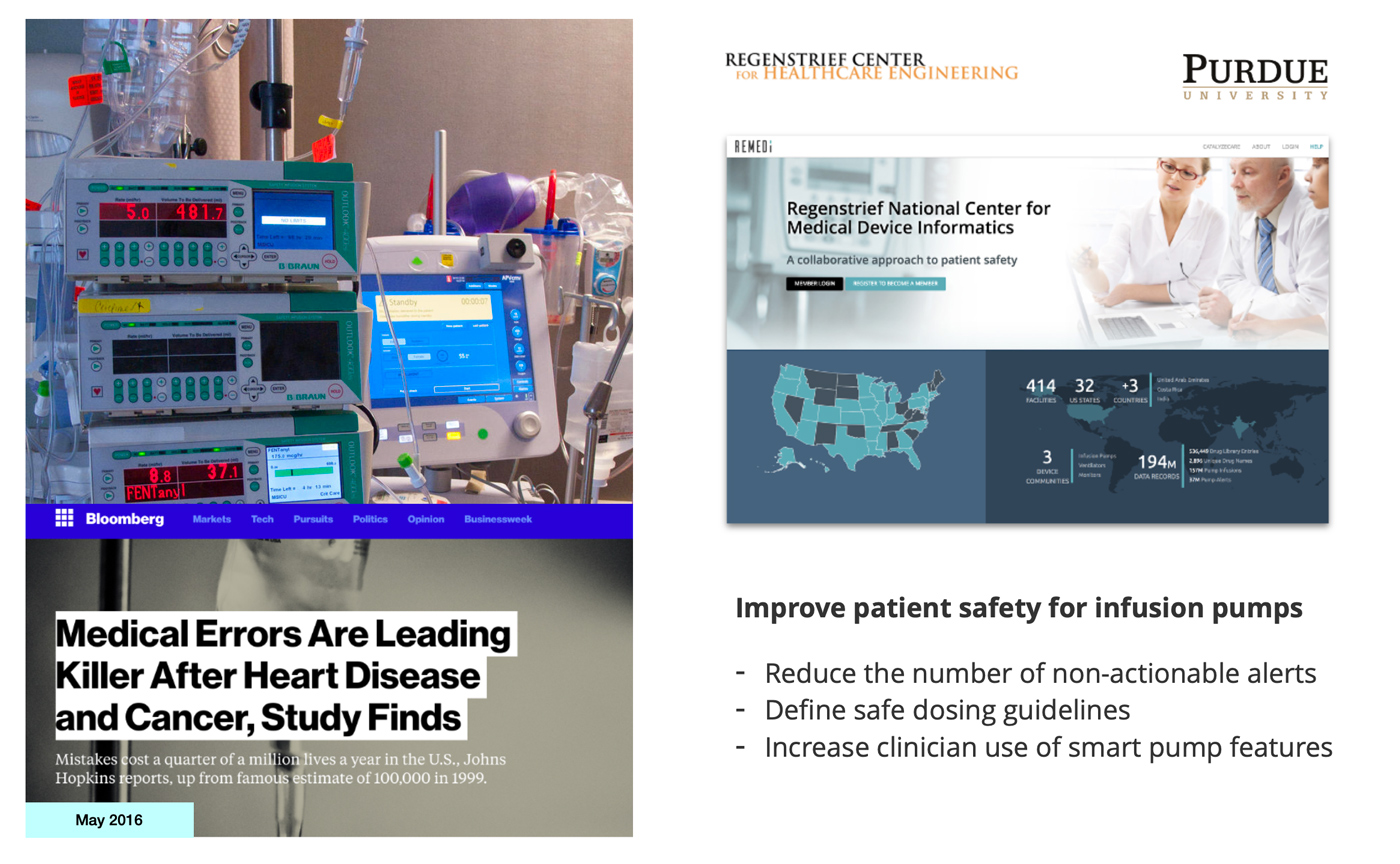
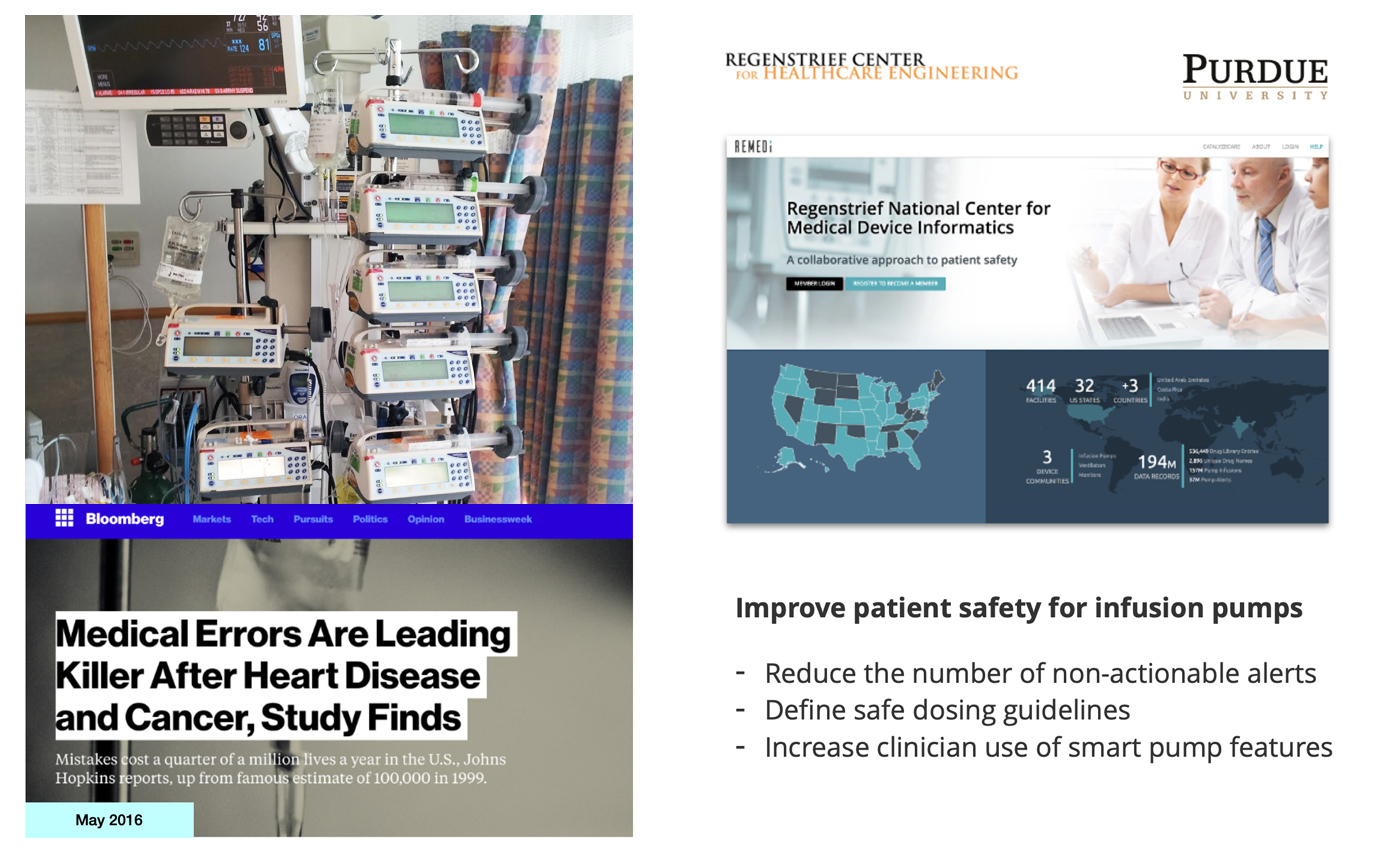
added more examples

Changed region(s): [[0.0, 0.0, 0.4607, 0.5938]]

diff --git a/story.html b/story.html
@@ -52,11 +52,12 @@
 					<li data-link="s-s1" class="selected">Intro</li>
 					<li data-link="s-s2">The Big Picture</li>
 					<li data-link="s-s3">Starting Point</li>
-					<li data-link="s-s4">Research</li>
-					<li data-link="s-s5">Early Concepts</li>
-          <li data-link="s-s6">Prototyping</li>
-					<li data-link="s-s7">Development</li>
-          <li data-link="s-s8">Impact</li>
+          <li data-link="s-s4">Challenges</li>
+					<li data-link="s-s5">Research</li>
+					<li data-link="s-s6">Early Concepts</li>
+          <li data-link="s-s7">Prototyping</li>
+					<li data-link="s-s8">Development</li>
+          <li data-link="s-s9">Impact</li>
 				</ul>
 			</div>
 		</div>
@@ -109,6 +110,21 @@
 
       <section class="content content-samples content-story" id="s-s4">
         <div class="wrap">
+          <h4>Challenges</h4>
+  				<div class="story-text">
+            <p>Designing for scale was one big challenge we faced, both in terms of system architecture, and the user experience itself. In design of the analytics UI I had to consider the big and growing number of potential selection options, huge number of data points for visualization, loading time and general performance.</p>
+            <p>We had to map non-standard irregular data in customer data files to standards to enable meaningful comparison. To help with data mapping, I designed a multi-step uploader tool with a step where we showed the user previously unmapped values and asked to pick best match. The process needed to be intuitive and non-tedious.</p>
+            <p>The overall complexity of data posed a big challenge for designing a simple-to-use, practical UI. This is the kind of design challenge I like best.</p>
+          </div>
+          <div class="sample">
+            <img src="assets/images/story/dll-challenge.jpg" alt="DLL design challenges" class="noshadow" />
+          </div>
+
+        </div>
+      </section>
+
+      <section class="content content-samples content-story" id="s-s5">
+        <div class="wrap">
           <h4>Research</h4>
   				<div class="story-text">
             <p>Good design starts with good research. As a UX designer, you are equipped with a body of knowledge on qualitative and quantitave research methods, tools and techniques. In practice, the context of a concrete project, environment and situation dictates what methods and resources are available and make most sense to use.</p>
@@ -121,7 +137,7 @@
         </div>
       </section>
 
-      <section class="content content-samples content-story" id="s-s5">
+      <section class="content content-samples content-story" id="s-s6">
         <div class="wrap">
           <h4>Information Design &amp; Early Concepts</h4>
   				<div class="story-text">
@@ -136,7 +152,7 @@
         </div>
       </section>
 
-      <section class="content content-samples content-story" id="s-s6">
+      <section class="content content-samples content-story" id="s-s7">
         <div class="wrap">
           <h4>On to Prototyping</h4>
   				<div class="story-text">
@@ -149,21 +165,23 @@
         </div>
       </section>
 
-      <section class="content content-samples content-story" id="s-s7">
+      <section class="content content-samples content-story" id="s-s8">
         <div class="wrap">
           <h4>Bringing it to Life</h4>
   				<div class="story-text">
             <p>Next comes the visual design part and polishing of interaction. Here the design principles all come into play. You think of balance, proportions, space, affordances, consider responsiveness and scale.</p>
             <p>I have the advantage of also being a decent coder, and prefer to deliver late stage interactive mock-ups coded in HTML, CSS & JS. In our small REMEDI team there was noone to pick up front-end coding task anyway. My mock-ups were the end product. It was the first app on a new platform, therefore no design system in place yet (we established a design system later on). This was the time to choose the tech stack, define the rules and set a scalable foundation. And it was a great time to learn. Here I mastered D3.js and wrote a whole charting library, I learned some functional programming with ClojureScript, got hands-on experience with React.</p>
-            <p>It's the best part - when your design vision comes to life, in a beautiful functional form, and when users start engaging with the product. Of course, design is never "done". Many cycles of improvement follow. To me watching the product I designed evolve is much like watching my babies grow. It's emotional and rewarding.</p>
           </div>
           <div class="sample">
-            <img src="assets/images/story/dll-prod.png" alt="DLL development" class="noshadow" />
+            <img src="assets/images/story/dll-comp-prod.jpg" alt="DLL development" class="noshadow" />
+          </div>
+          <div class="story-text">
+            <p>It's the best part - when your design vision comes to life, in a beautiful functional form, and when users start engaging with the product. Of course, design is never "done". Many cycles of improvement follow. To me watching the product I designed evolve is much like watching my babies grow. It's emotional and rewarding.</p>
           </div>
         </div>
       </section>
 
-      <section class="content content-samples content-story" id="s-s8">
+      <section class="content content-samples content-story" id="s-s9">
         <div class="wrap">
           <h4>Impact</h4>
           <div class="story-text">

diff --git a/index.html b/index.html
@@ -22,7 +22,7 @@
 		<meta name="viewport" content="width=device-width, initial-scale=1.0, maximum-scale=1.0, user-scalable=no, minimal-ui">
 		<link href="https://fonts.googleapis.com/css?family=Muli:300,400,500" rel="stylesheet">
     <link rel="stylesheet" href="assets/css/simple-lightbox.css" />
-    <link rel="stylesheet" href="assets/css/snowwitje.css?v=1.3" id="theme">
+    <link rel="stylesheet" href="assets/css/snowwitje.css?v=1.4" id="theme">
 		<script src="assets/js/jquery.min.js"></script>
     <script src="assets/js/simple-lightbox.js"></script>
 		<script src="assets/js/snowwitje.js?v=1.1"></script>
@@ -201,7 +201,7 @@
 				</div>
 				<div class="clear"></div>
 
-				<h5>REMEDI platform. Administrative Module. <span class="year">2015</span></h5>
+				<h5>REMEDI platform. Administrative module. <span class="year">2015</span></h5>
 				<div class="flex-section">
 					<div class="flex-col col3">
 						<div class="sample">
@@ -213,6 +213,22 @@
 						<p><span class="h6">Users</span>Administrators of the REMEDI platform.</p>
 						<p><span class="h6">User Tasks</span>Add/edit organizations, members, manage members' ACL, edit platform configurations and view usage statistics.</p>
 						<p><span class="h6">My Work</span>Complete UX/UI design and programming (PHP+MySQL; HTML, CSS, JavaScript), including the back-end.</p>
+					</div>
+				</div>
+				<div class="clear"></div>
+
+        <h5>REMEDI platform. Uploader tool. <span class="year">2015</span></h5>
+				<div class="flex-section">
+					<div class="flex-col col3">
+						<div class="sample">
+							<img src="assets/images/remedi/uploader-mapping.png" alt="Uploader tool of REMEDI" />
+						</div>
+						<p class="about">Data uploader tool for authorized members of REMEDI platform to add their hospital data into the system.</p>
+					</div>
+					<div class="flex-col col4">
+            <p><span class="h6">About</span>The tool was designed as a stepped process. After uploading selected data file(s), user was asked to map any previously unmapped non-standard values in their data (drug names, care profiles, etc.) to standards. This mapping allowed meaningful comparison of data across different hospitals.</p>
+						<p><span class="h6">Users</span>Hospital pharmacists and nurses, members of REMEDI with permission to upload data files.</p>
+						<p><span class="h6">My Work</span>Complete UX/UI design. HTML, CSS and JavaScript coding of the interactive prototype.</p>
 					</div>
 				</div>
 				<div class="clear"></div>
